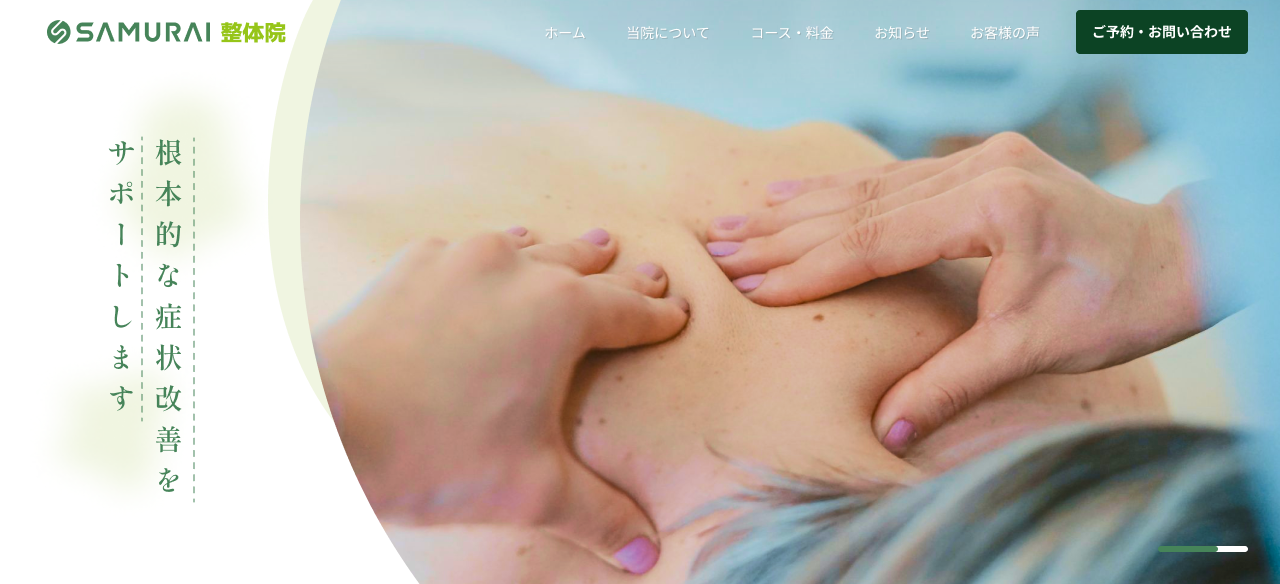
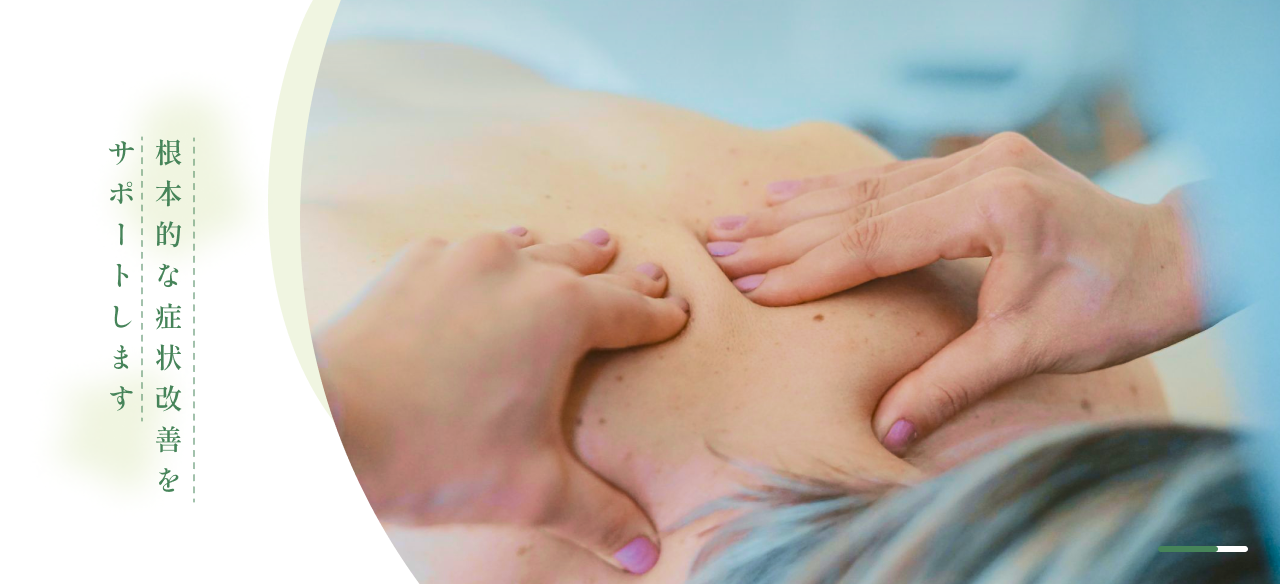
html, css, js修正

diff --git a/index.html b/index.html
@@ -22,7 +22,10 @@
 
   <link rel="stylesheet" href="./css/style.css">
   <link rel="shortcut icon" href="./images/Union.png" type="image/x-icon">
-
+  
+  <!-- slickの読み込み -->
+  <link rel="stylesheet" type="text/css" href="https://cdn.jsdelivr.net/npm/slick-carousel@1.8.1/slick/slick.css"/>
+  <link rel="stylesheet" type="text/css" href="https://cdn.jsdelivr.net/npm/slick-carousel@1.8.1/slick/slick-theme.css"/>
 </head>
 
 <body>
@@ -30,6 +33,7 @@
     <div>
       <div class="flex ai-center jc-spcbetween">
         <h1><a href="index.html" class="logo"><img src="images/Frame 2259.png" alt="SAMURAI整体院"></a></h1>
+        <!-- nav-pc -->
         <nav class="nav">
           <ul class="header__nav-menu flex">
             <li class="header__nav-list white"><a href="#" class="nav__link">ホーム</a></li>
@@ -40,6 +44,22 @@
             <li class="header__nav-list white header__nav-btn background-darkgreen"><a href="#access" class="nav__link">ご予約・お問い合わせ</a></li>
           </ul>
         </nav>
+
+        <!-- nav-sp-button -->
+        <img src="./images/SP_MenuDefault.png" alt="ナビゲーションを開く" class="js-humburger">
+
+        <!-- nav-sp -->
+        <nav class="nav-sp">
+          <ul class="header__nav-menu">
+            <li class="header__nav-list white"><a href="#" class="nav__link">ホーム</a></li>
+            <li class="header__nav-list white"><a href="#concept" class="nav__link">当院について</a></li>
+            <li class="header__nav-list white"><a href="#course" class="nav__link">コース・料金</a></li>
+            <li class="header__nav-list white"><a href="#news" class="nav__link">お知らせ</a></li>
+            <li class="header__nav-list white"><a href="#voice" class="nav__link">お客様の声</a></li>
+            <li class="header__nav-list white header__nav-btn background-darkgreen"><a href="#access" class="nav__link">ご予約・お問い合わせ</a></li>
+          </ul>
+        </nav>
+
       </div>
     </div>
   </header>
@@ -53,6 +73,62 @@
       <img class="main-visual__img" src="images/mainvisual-img.png" alt="整体院店内">
     </div>
   </div>
+
+  <!-- carousel -->
+  <section id="carousel">
+    <!-- カルーセル pc -->
+    <div>
+      <div class="carousel__container-pc">
+        <div>
+          <a href="#">
+            <img src="./images/TOP_Carousel1.png" class="carousel__img-pc" alt="店内の様子">
+          </a>
+        </div>
+        <div>
+          <a href="#">
+            <img src="./images/TOP_Carousel2.png" class="carousel__img-pc" alt="店内の様子">
+          </a>
+        </div>
+        <div>
+          <a href="#">
+            <img src="./images/TOP_Carousel3.png" class="carousel__img-pc" alt="店内の様子">
+          </a>
+        </div>
+        <div>
+          <a href="#">
+            <img src="./images/TOP_Carousel4.png" class="carousel__img-pc" alt="店内の様子">
+          </a>
+        </div>
+      </div>
+    </div>
+    <!-- カルーセル sp -->
+    <div>
+      <div class="carousel__container-sp">
+        <div>
+          <a href="#">
+            <img src="./images/SP_TOP_Carousel1.png" class="carousel__img-sp" alt="店内の様子">
+          </a>
+        </div>
+        <div>
+          <a href="#">
+            <img src="./images/SP_TOP_Carousel2.png" class="carousel__img-sp" alt="店内の様子">
+          </a>
+        </div>
+        <div>
+          <a href="#">
+            <img src="./images/SP_TOP_Carousel3.png" class="carousel__img-sp" alt="店内の様子">
+          </a>
+        </div>
+        <div>
+          <a href="#">
+            <img src="./images/SP_TOP_Carousel4.png" class="carousel__img-sp" alt="店内の様子">
+          </a>
+        </div>
+      </div>
+    </div>
+  </section>
+
+
 
 <section id="news">
   <div>

diff --git a/js/script.js b/js/script.js
@@ -1,14 +1,14 @@
 $(function() {
 
-  const pagetop = $('#page-top');
+  let pagetop = $('#page-top');
   // ボタン非表示
   pagetop.hide();
   // 100px スクロールしたらボタン表示
   $(window).scroll(function() {
     if(($this).scrollTop() > 100) {
-      pagetop.fadein();
+      pagetop.fadeIn();
     } else {
-      pagetop.fadeout();
+      pagetop.fadeOut();
     }
   });
 
@@ -16,5 +16,19 @@ $(function() {
     $('body, html').animate({scrollTop: 0}, 500);
     return false;
   });
+
+  // カルーセル　slick
+  $('.carousel__container-pc, .carousel__container-sp').slick({
+    autoplay: true,
+    dots: true,
+    infinite: true,
+    autoplaySpeed: 5000,
+    arrows: false
+    });
+
+  // ハンバーガーメニュー
+  $('.js-humberger').on('click', function(){
+    $('.js-humberger, .nav-sp').toggleClass('show');
+  })
 
 });

diff --git a/css/style.css b/css/style.css
@@ -201,6 +201,13 @@
   font-weight: 1.4rem;
 }
 
+.btn:hover {
+  border: #1B9240 solid 1px;
+  color: #FFFFFF;
+  background-color: #1B9240;
+}
+
+
 /* button-green */
 .btn-green {
   display: inline-block;
@@ -233,6 +240,11 @@
 [class*="__nav-list"] {
   padding: 20px 0;
   margin-left: 2vw;
+}
+
+/* header js */
+.js-humberger {
+  
 }
 
 /* main-visual */
@@ -479,6 +491,11 @@ jQueryの指定(PC)
 ---------------------- */
 /* 768pxより大きい */
 @media screen and (min-width: 769px) {
+  /* carousel */
+  .carousel__img-sp {
+    display: none;
+  }
+  
   /* voice */
   .voice__flame-sp {
     display: none;
@@ -561,6 +578,10 @@ jQueryの指定(PC)
   /* ----------------------
   セクション
   ---------------------- */
+  .carousel__container-pc {
+    display: none;
+  }
+  
   /* news */
   .news__box-outer {
     flex-direction: column;
